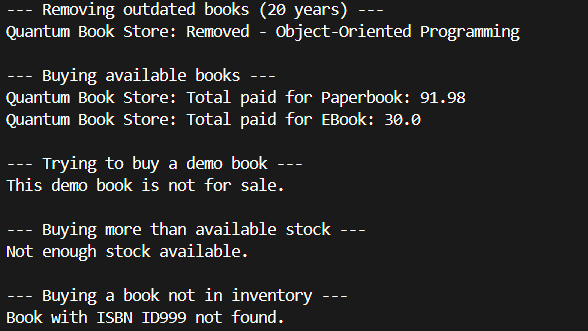
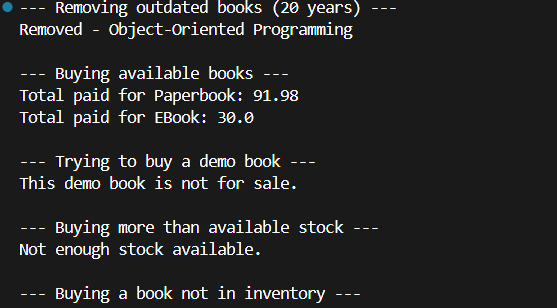
updates

diff --git a/src/BookstoreTest.java b/src/BookstoreTest.java
@@ -1,4 +1,4 @@
-public class QuantumBookstoreTest {
+public class BookstoreTest {
     public static void main(String[] args) {
         BookInventory inventory = new BookInventory();
 
@@ -17,13 +17,13 @@ public class QuantumBookstoreTest {
 
         System.out.println("--- Removing outdated books (20 years) ---");
         for (Book book : inventory.removeOutdatedBooks(20)) {
-            System.out.println("Quantum Book Store: Removed - " + book.getTitle());
+            System.out.println("Removed - " + book.getTitle());
         }
 
         System.out.println("\n--- Buying available books ---");
         try {
             double total = inventory.buyBook("ID01", 2, "buyer@gamail.com", "Cairo, Egypt");
-            System.out.println("Quantum Book Store: Total paid for Paperbook: " + total);
+            System.out.println("Total paid for Paperbook: " + total);
 
         } catch (Exception error) {
             System.out.println(error.getMessage());
@@ -31,7 +31,7 @@ public class QuantumBookstoreTest {
 
         try {
             double total = inventory.buyBook("ID02", 1, "reader@example.com", "N/A");
-            System.out.println("Quantum Book Store: Total paid for EBook: " + total);
+            System.out.println("Total paid for EBook: " + total);
         } catch (Exception e) {
             System.out.println(e.getMessage());
         }
